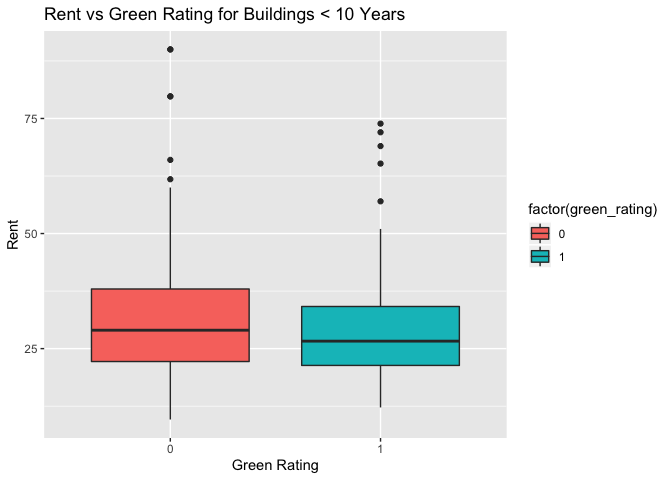
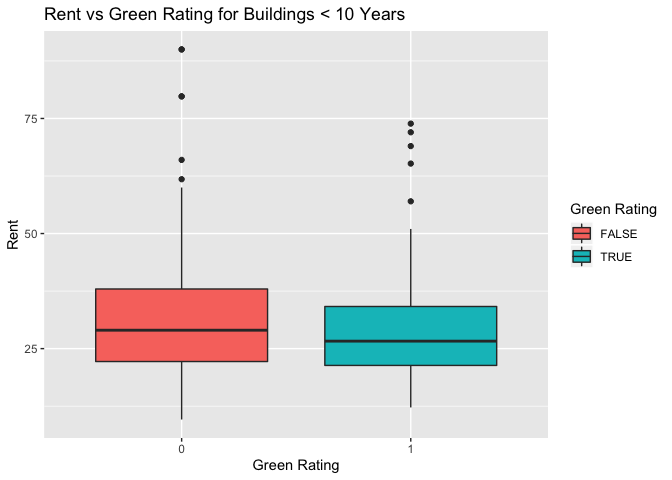
changed labels on some graphs

diff --git a/exercise1.md b/exercise1.md
@@ -191,7 +191,8 @@ $2.5.
 ``` r
 ggplot(filter(greenbuildings, age < 10 ), aes(fill = factor(green_rating), x = factor(green_rating), y = Rent)) +
   labs(x = "Green Rating", y = "Rent", title = "Rent vs Green Rating for Buildings < 10 Years")+
-  geom_boxplot()
+  geom_boxplot() +
+  scale_fill_discrete(name = "Green Rating", labels = c("FALSE", "TRUE"))
 ```
 
 ![](exercise1_files/figure-gfm/unnamed-chunk-8-1.png)<!-- -->
@@ -222,7 +223,8 @@ $1.74.
 
 ``` r
 ggplot(greenbuildings, aes(x = factor(LEED), y = Rent, fill = factor(LEED))) +
-  geom_boxplot()
+  geom_boxplot() +
+  scale_fill_discrete(name = "LEED", labels = c("FALSE", "TRUE"))
 ```
 
 ![](exercise1_files/figure-gfm/unnamed-chunk-9-1.png)<!-- -->
@@ -244,7 +246,8 @@ print(kable(test1, format = "markdown", col.names = c("LEED", "Median Rent")))
 
 ``` r
 ggplot(greenbuildings, aes(x = factor(Energystar), y = Rent, fill = factor(Energystar))) +
-  geom_boxplot()
+  geom_boxplot() +
+  scale_fill_discrete(name = "Energy Star", labels = c("FALSE", "TRUE"))
 ```
 
 ![](exercise1_files/figure-gfm/unnamed-chunk-9-2.png)<!-- -->
